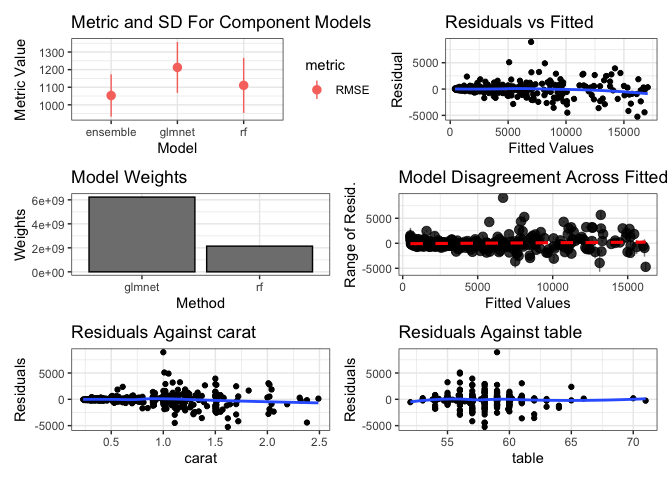
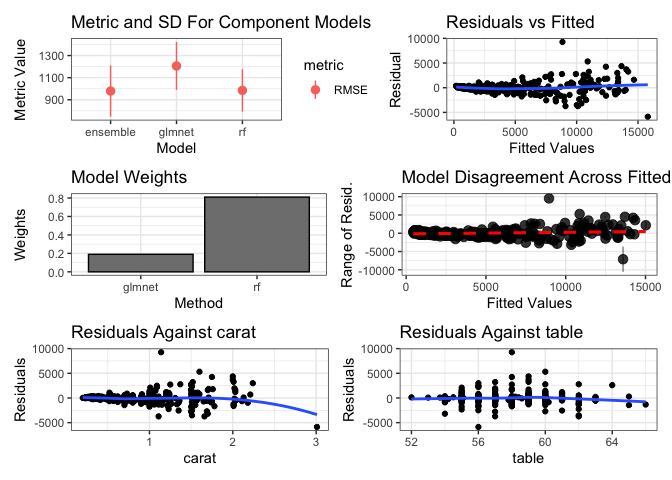
alt text and bump date

diff --git a/README.md b/README.md
@@ -46,10 +46,10 @@ print(summary(models))
 #> The following models were ensembled: rf, glmnet  
 #> 
 #> Model accuracy:
-#>    model_name metric    value       sd
-#>        <char> <char>    <num>    <num>
-#> 1:         rf   RMSE 1110.687 156.3977
-#> 2:     glmnet   RMSE 1212.655 144.5434
+#>    model_name metric     value       sd
+#>        <char> <char>     <num>    <num>
+#> 1:         rf   RMSE  984.9967 192.3488
+#> 2:     glmnet   RMSE 1206.0751 217.0510
 ```
 
 Then, use caretEnsemble to make a greedy ensemble of these models
@@ -64,21 +64,21 @@ print(greedy_stack)
 #> 
 #> No pre-processing
 #> Resampling: Cross-Validated (5 fold) 
-#> Summary of sample sizes: 400, 400, 400, 400, 400 
+#> Summary of sample sizes: 401, 400, 400, 400, 399 
 #> Resampling results:
 #> 
 #>   RMSE      Rsquared   MAE     
-#>   1054.468  0.9297412  584.7777
+#>   979.0064  0.9342773  506.3942
 #> 
 #> Tuning parameter 'max_iter' was held constant at a value of 100
 #> 
 #> Final model:
 #> Greedy MSE
-#> RMSE:  1062.976 
+#> RMSE:  985.9732 
 #> Weights:
 #>        [,1]
-#> rf     0.63
-#> glmnet 0.37
+#> rf     0.81
+#> glmnet 0.19
 ```
 
 You can also use caretStack to make a non-linear ensemble
@@ -94,11 +94,11 @@ print(rf_stack)
 #> 
 #> No pre-processing
 #> Resampling: Cross-Validated (5 fold) 
-#> Summary of sample sizes: 400, 400, 400, 400, 400 
+#> Summary of sample sizes: 400, 400, 399, 400, 401 
 #> Resampling results:
 #> 
 #>   RMSE      Rsquared   MAE     
-#>   1052.992  0.9377573  539.9399
+#>   973.1948  0.9402302  500.0689
 #> 
 #> Tuning parameter 'mtry' was held constant at a value of 2
 #> 
@@ -110,23 +110,23 @@ print(rf_stack)
 #>                      Number of trees: 500
 #> No. of variables tried at each split: 2
 #> 
-#>           Mean of squared residuals: 1157730
-#>                     % Var explained: 93.12
+#>           Mean of squared residuals: 1127223
+#>                     % Var explained: 92.21
 ```
 
 Use autoplot from ggplot2 to plot ensemble diagnositcs:
 
 ``` r
-ggplot2::autoplot(rf_stack, training_data = dat, xvars = c("carat", "table"))
-```
-
-<img src="man/figures/README-unnamed-chunk-5-1.png" width="100%" />
-
-``` r
 ggplot2::autoplot(greedy_stack, training_data = dat, xvars = c("carat", "table"))
 ```
 
-<img src="man/figures/README-unnamed-chunk-5-2.png" width="100%" />
+<img src="man/figures/README-unnamed-chunk-5-1.png" alt="6 panel plot of an ensemble of models fit to the diamonds dataset. The RF model is the best and has the highest weight. The residual plots look good. RMSE is about `r round(min(greedy_stack$ens_model$results$RMSE))`." width="100%" />
+
+``` r
+ggplot2::autoplot(rf_stack, training_data = dat, xvars = c("carat", "table"))
+```
+
+<img src="man/figures/README-unnamed-chunk-6-1.png" alt="6 panel plot of an ensemble of models fit to the diamonds dataset. The RF model is the best and has the highest weight. The residual plots look good. RMSE is about `r round(min(rf_stack$ens_model$results$RMSE))`." width="100%" />
 
 # Installation
 
